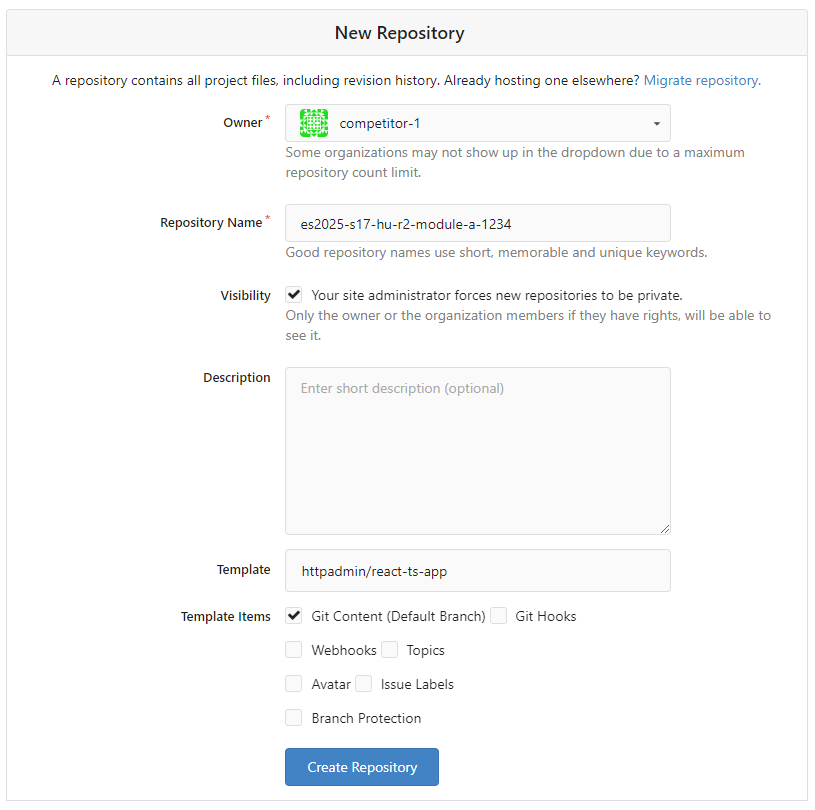
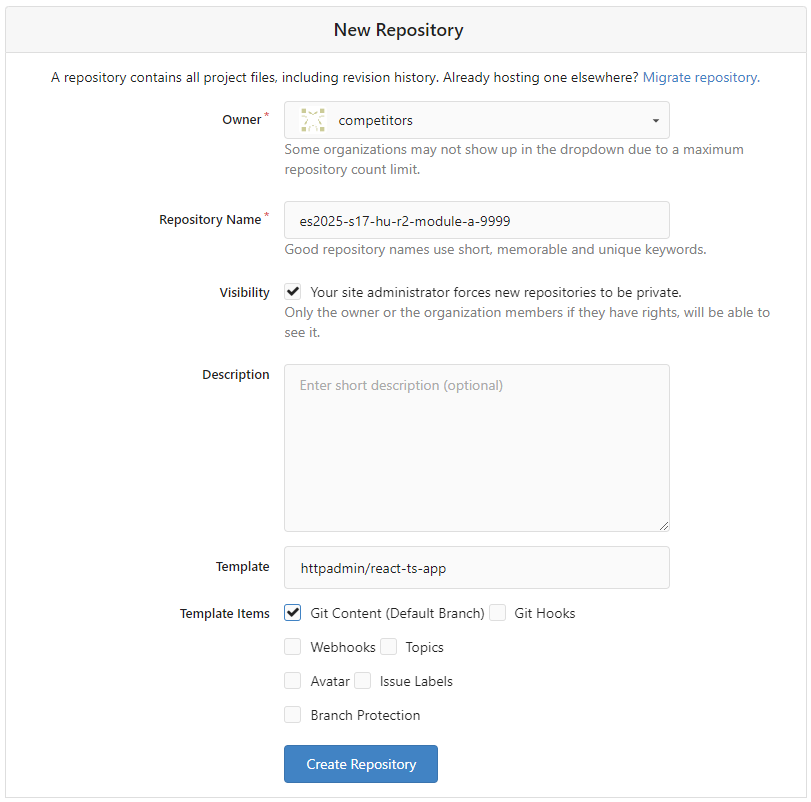
updates

diff --git a/modules-overview.md b/modules-overview.md
@@ -31,11 +31,14 @@ After logging in, create a new repo for the next task.
 
 ![Create new repo](assets/images/create-new-repo.png)
 
-On the form write the name of the new repo using the following pattern: `es2025-s17-hu-r2-module-a-YYYY`, where `YYYY` is the 4-digit pin code you received.
-Under the template field, select the appropriate template (e.g. `react-ts-app`). Select `Git Content (Default Branch)` for `Template Items`.
+- In the Owner field, select competitors team! **Make sure you set this option carefully, because if you set your own user as owner, the automatic deployment will not work!** 
+- On the form write the name of the new repo using the following pattern: `es2025-s17-hu-r2-module-a-YYYY`, where `YYYY` is the 4-digit pin code you received.
+- Under the template field, select the appropriate template (e.g. `react-ts-app`). Select `Git Content (Default Branch)` for `Template Items`.
 
 ![Create new repo](assets/images/new-repo-by-template.png)
 
 Once the new repo is created, clone it to your own workstation inside the `d:\es2025-s17-r2` folder.
+
+When you commit and push your work, the deployment will start automatically. You can follow the process in the Gitea interface under the Action tab. Once the deployment is complete, your project will be available at http://competitor-YYYY-module-x.dineease.com, where `YYYY` is your four-digit pin code and `x` is the letter of the module.
 
 

diff --git a/module-a.md b/module-a.md
@@ -20,3 +20,4 @@ Store these files in the `/jsons` folder of your backlend repo.
 The details of the endpoints implemented by the backend are contained in the `assets/module-a/dineeasy.yaml` file in OpenAPI format. 
 
 
+
